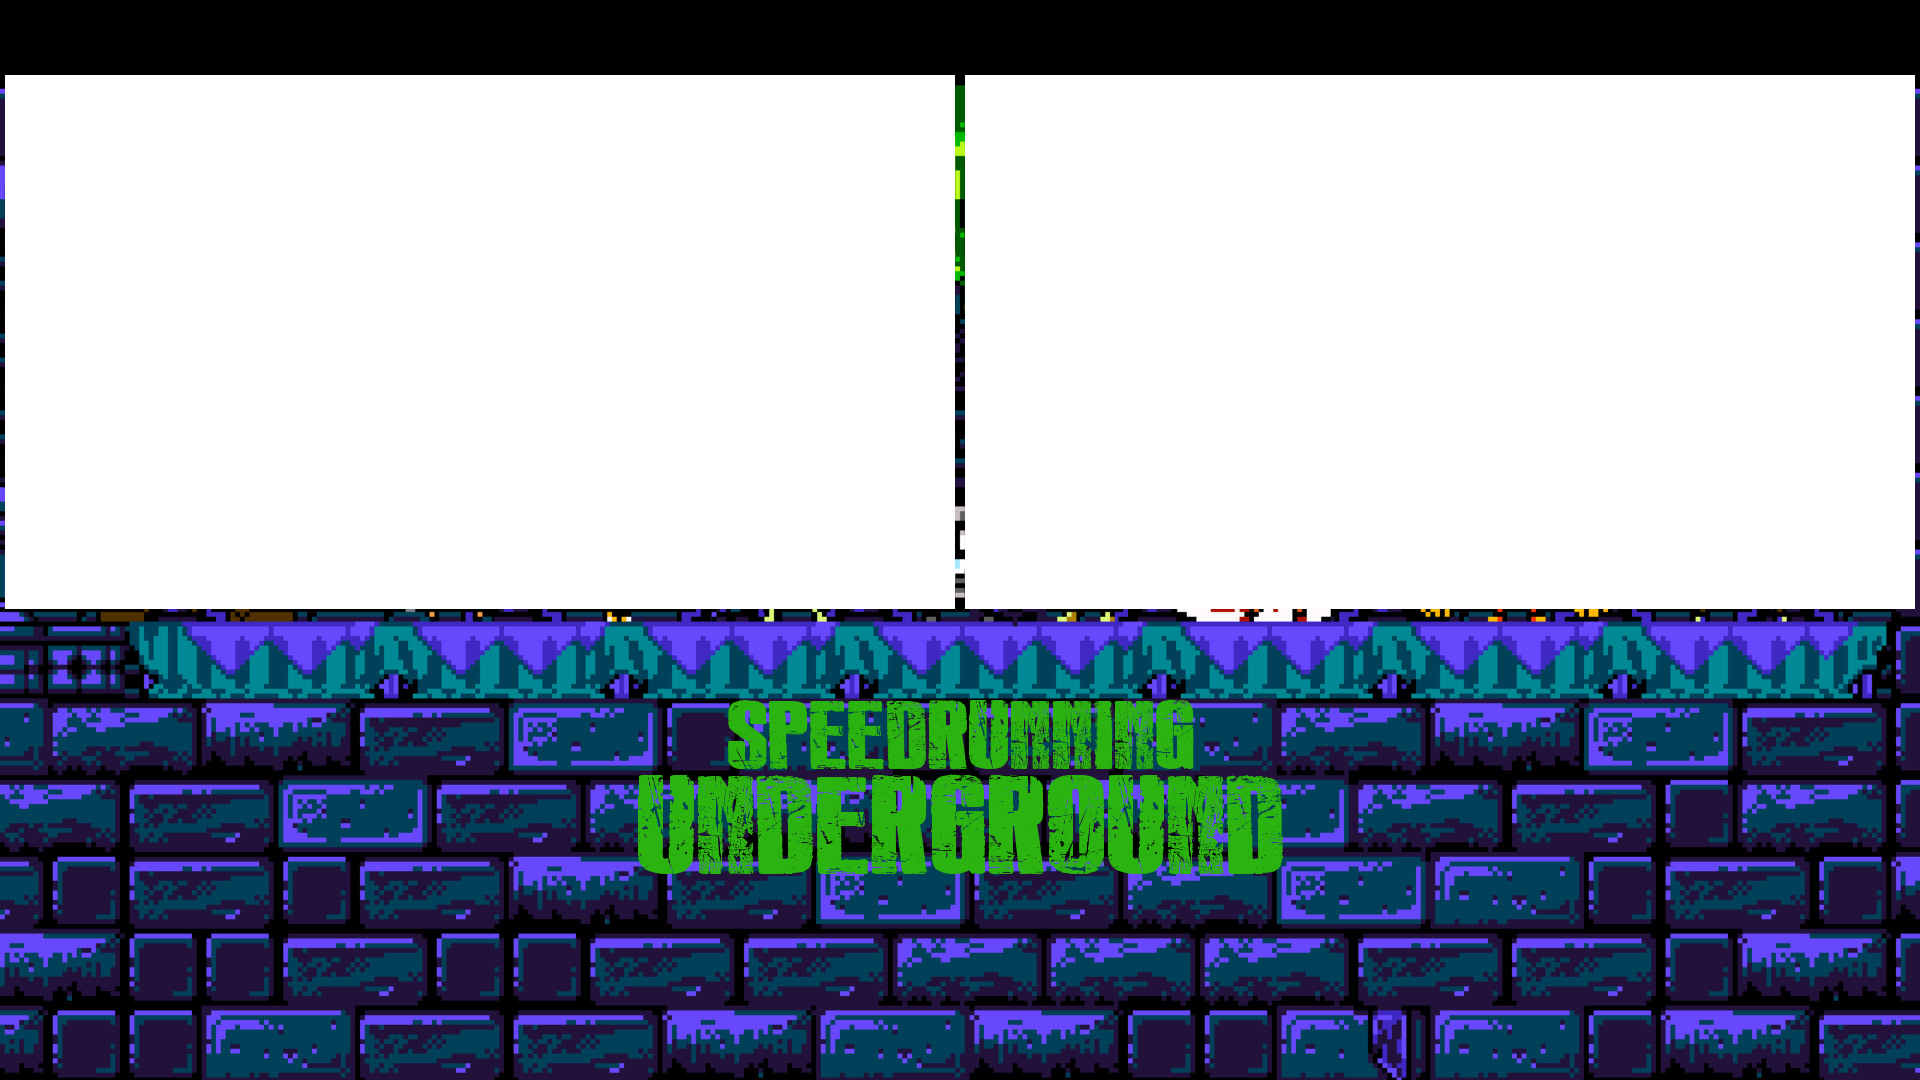
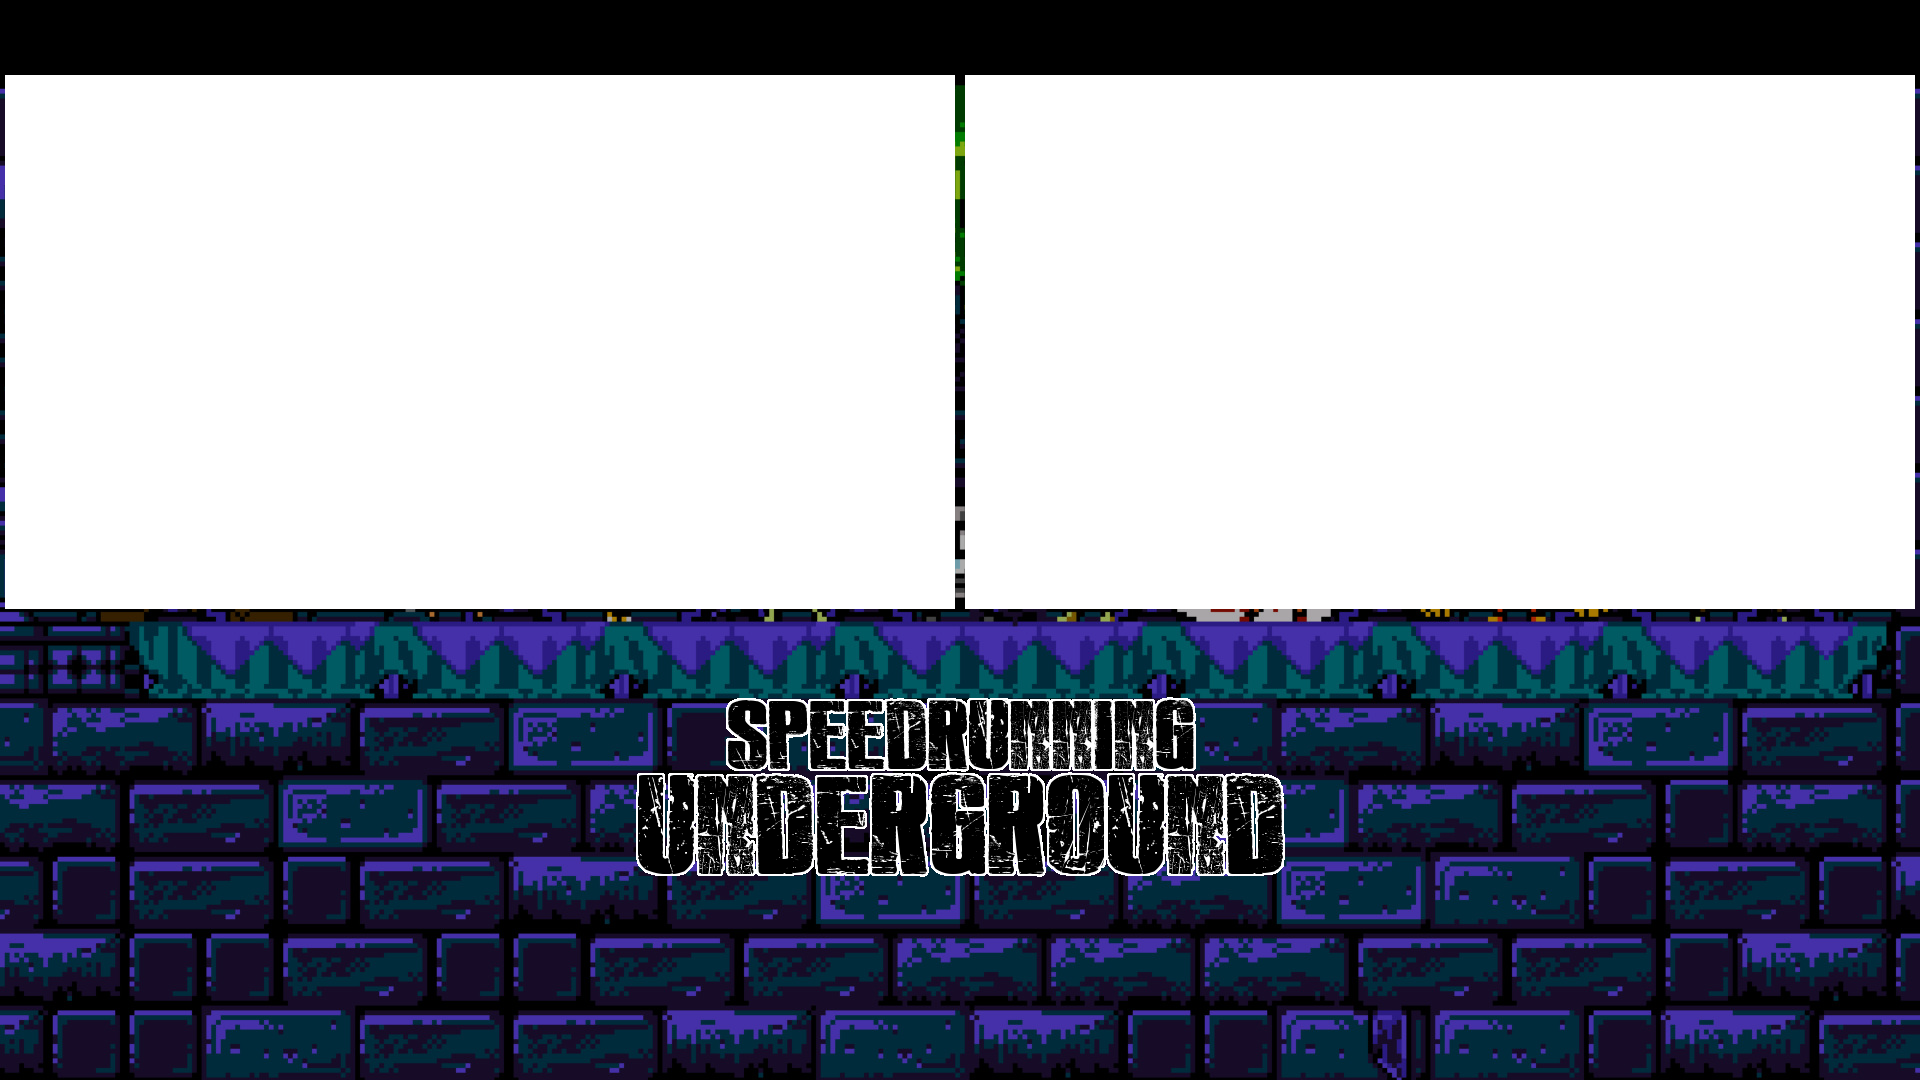
Make background switch properly

Changed region(s): [[0.0, 0.55, 1.0, 1.0], [0.0312, 0.9778, 0.0625, 1.0]]

diff --git a/src/app/stream/stream.html b/src/app/stream/stream.html
@@ -1,5 +1,5 @@
 <!-- TODO: Wire the background image back up to the controls page again -->
-<div class="container" [ngStyle]="{'background-image': 'url(../../assets/Trop/tropbgstream.png)'}">
+<div class="container" [ngStyle]="{'background-image': 'url(../../assets/' + vm.background.charAt(0).toUpperCase() + vm.background.slice(1) + '/' + vm.background + 'bgstream.png)'}">
     <div class="topbar">
     	<div class="name-cycle p1">
         	<div class="name-twitch text">
